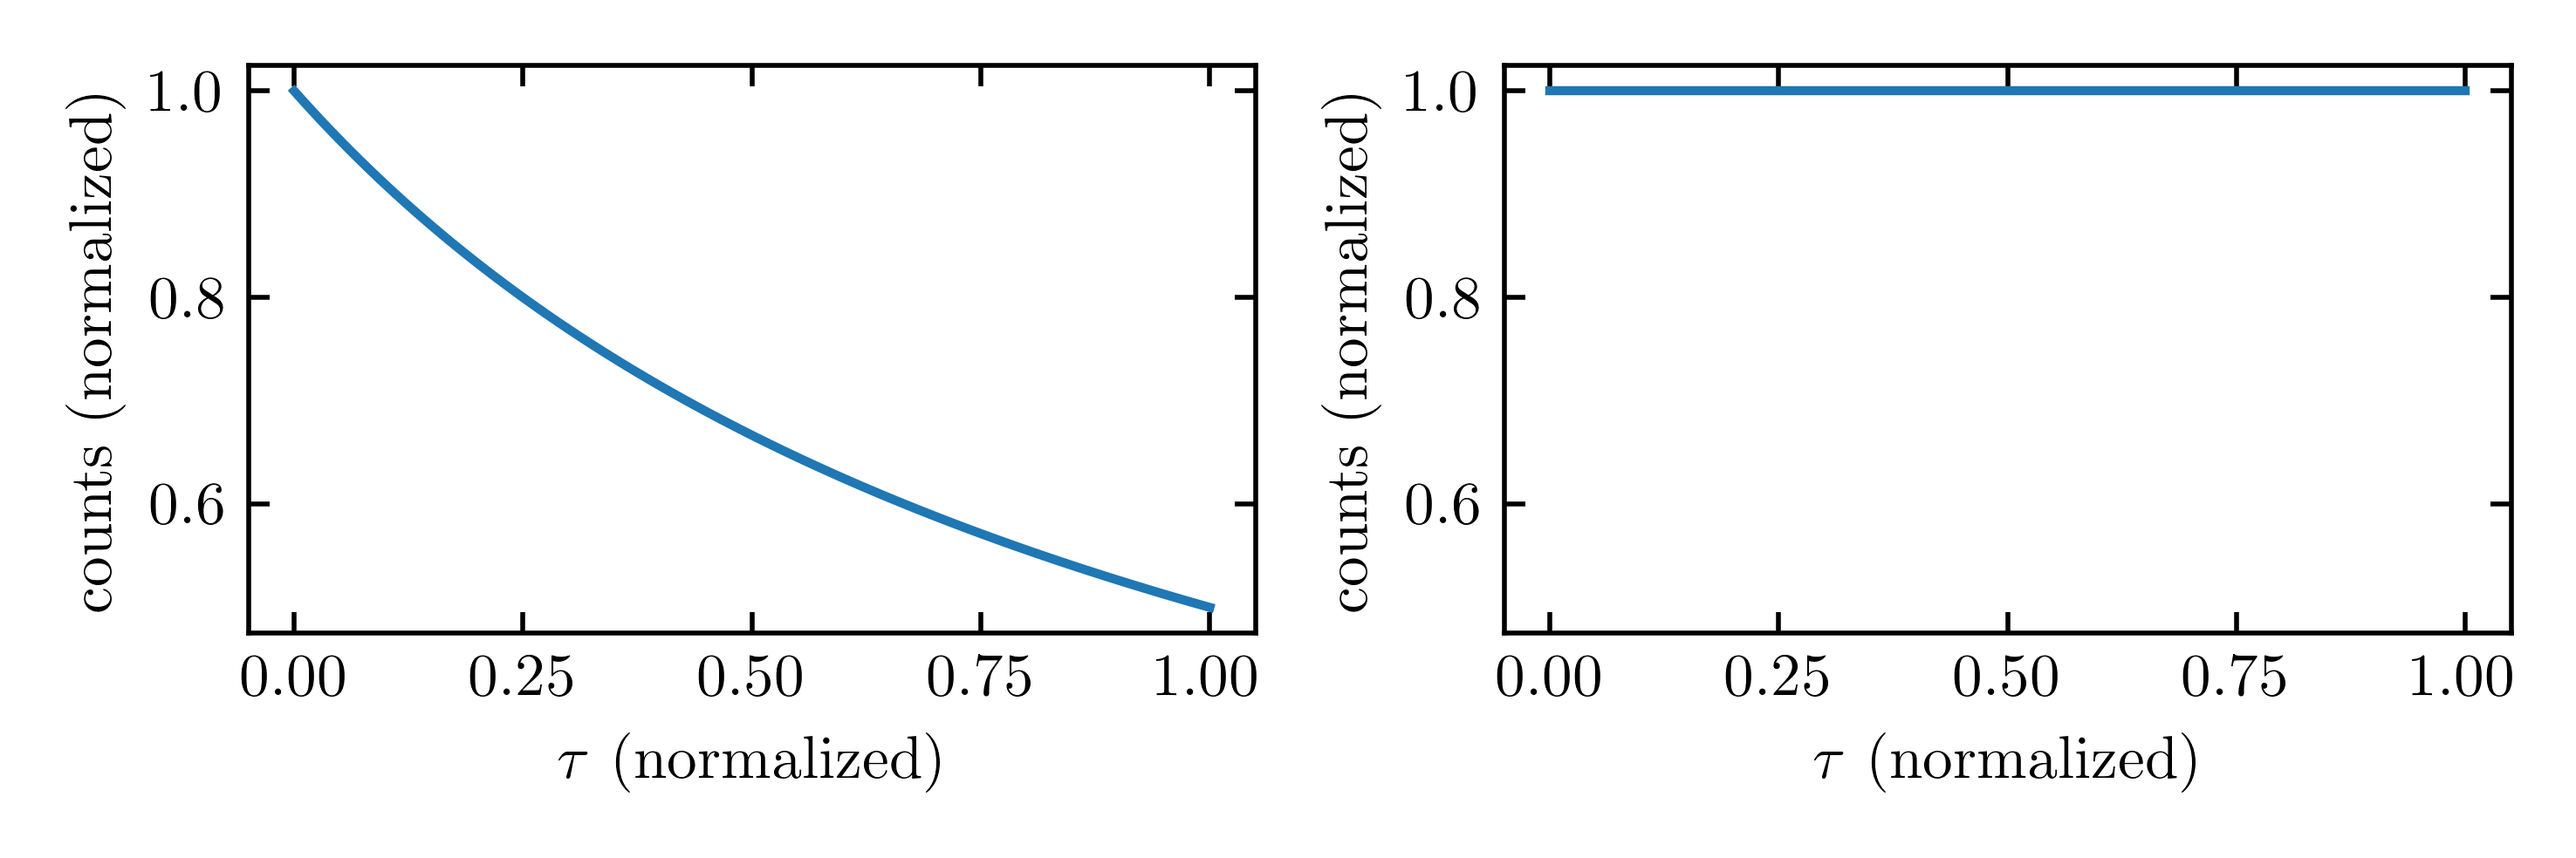
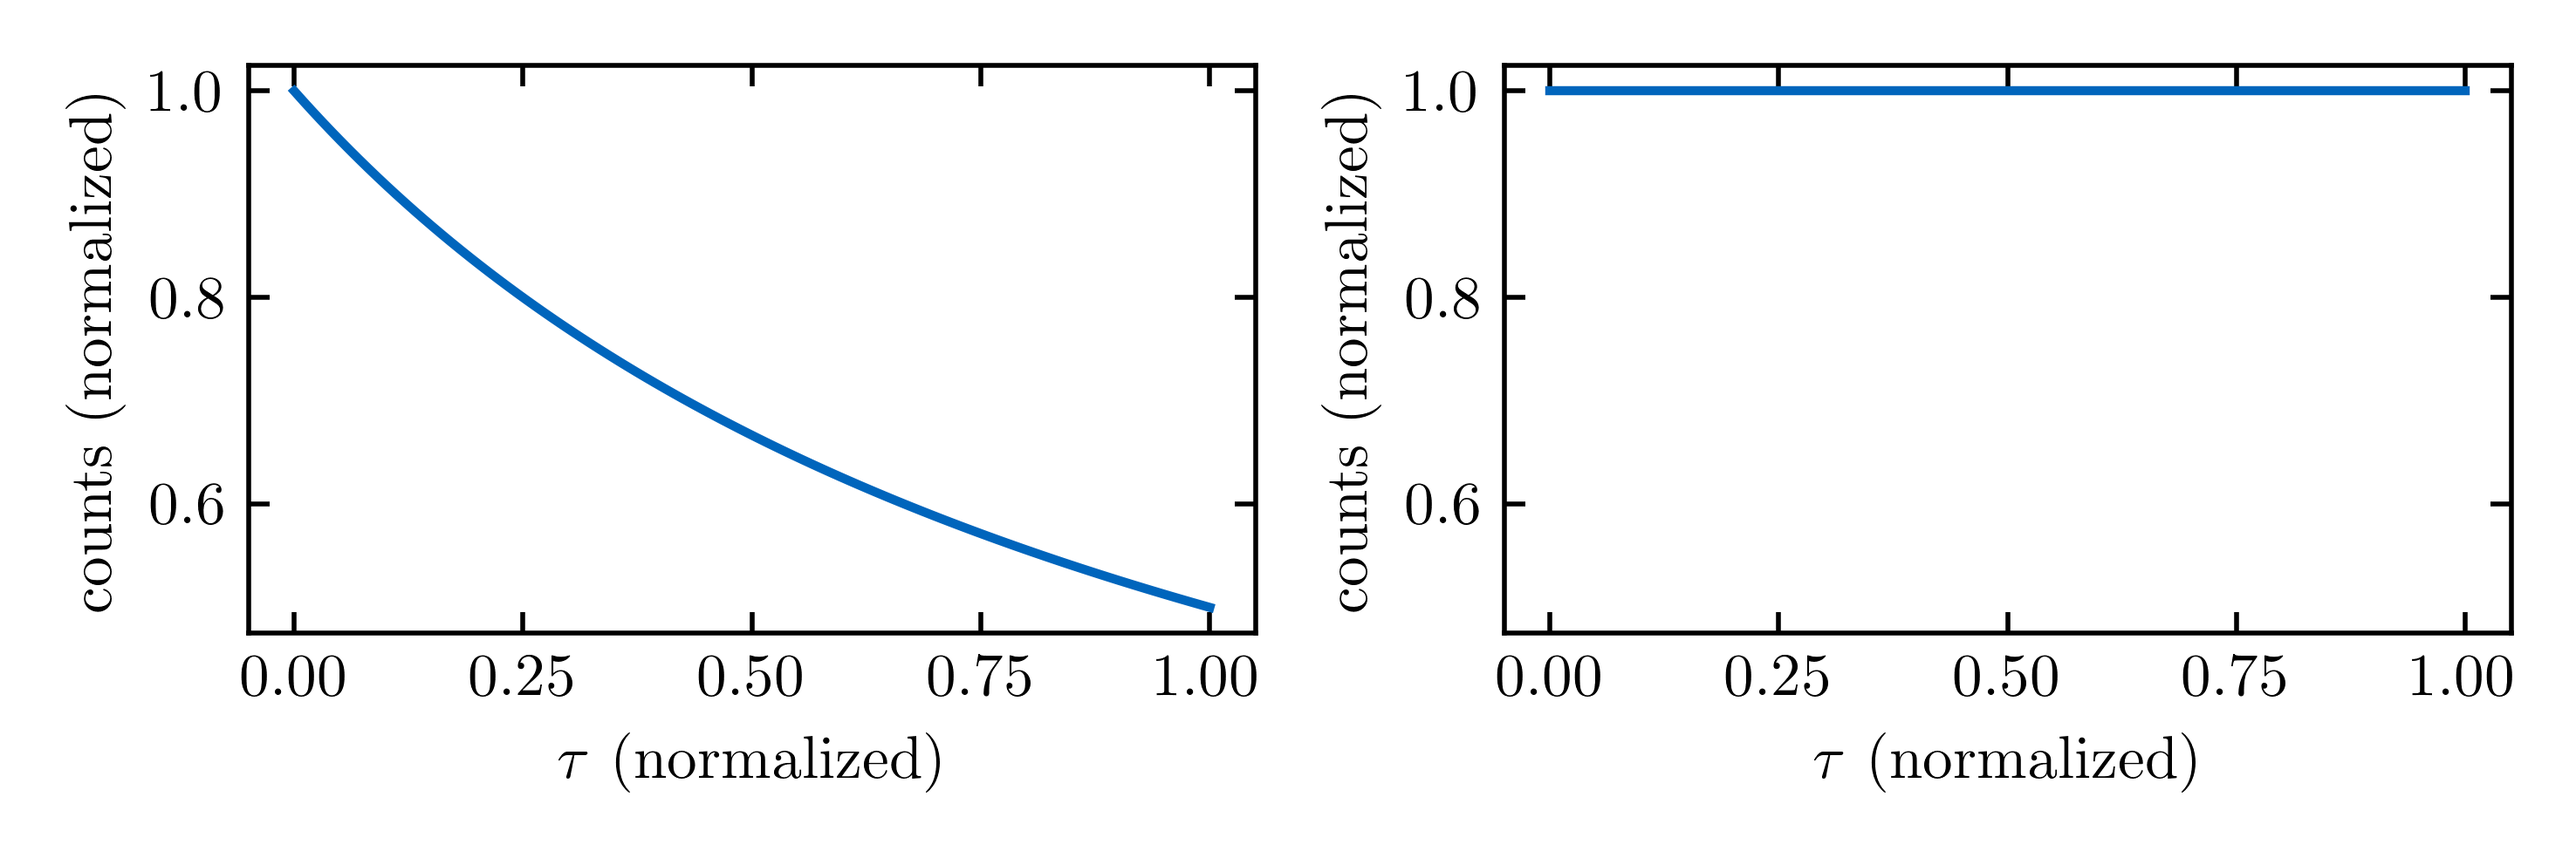
chapter 5 luminescence_fluctuation - tum blue

diff --git a/images/chapter_5/proem_tau_vs_counts.py b/images/chapter_5/proem_tau_vs_counts.py
@@ -1,6 +1,7 @@
 import matplotlib.pyplot as plt
 import numpy as np
 
+from util import tum_jet
 from util.inches import cm_to_inch
 
 
@@ -22,8 +23,8 @@ class ProemTauVsCountsPlotter:
         self.axes[1].set_ylabel('counts (normalized)')
 
     def __plot_counts(self):
-        self.axes[0].plot(self.taus, self.__decaying_counts_with_tau())
-        self.axes[1].plot(self.taus, self.__constant_counts_with_tau())
+        self.axes[0].plot(self.taus, self.__decaying_counts_with_tau(), color=tum_jet.tum_color(0))
+        self.axes[1].plot(self.taus, self.__constant_counts_with_tau(), color=tum_jet.tum_color(0))
         self.axes[1].set_ylim(self.axes[0].get_ylim())
 
     def __decaying_counts_with_tau(self):
